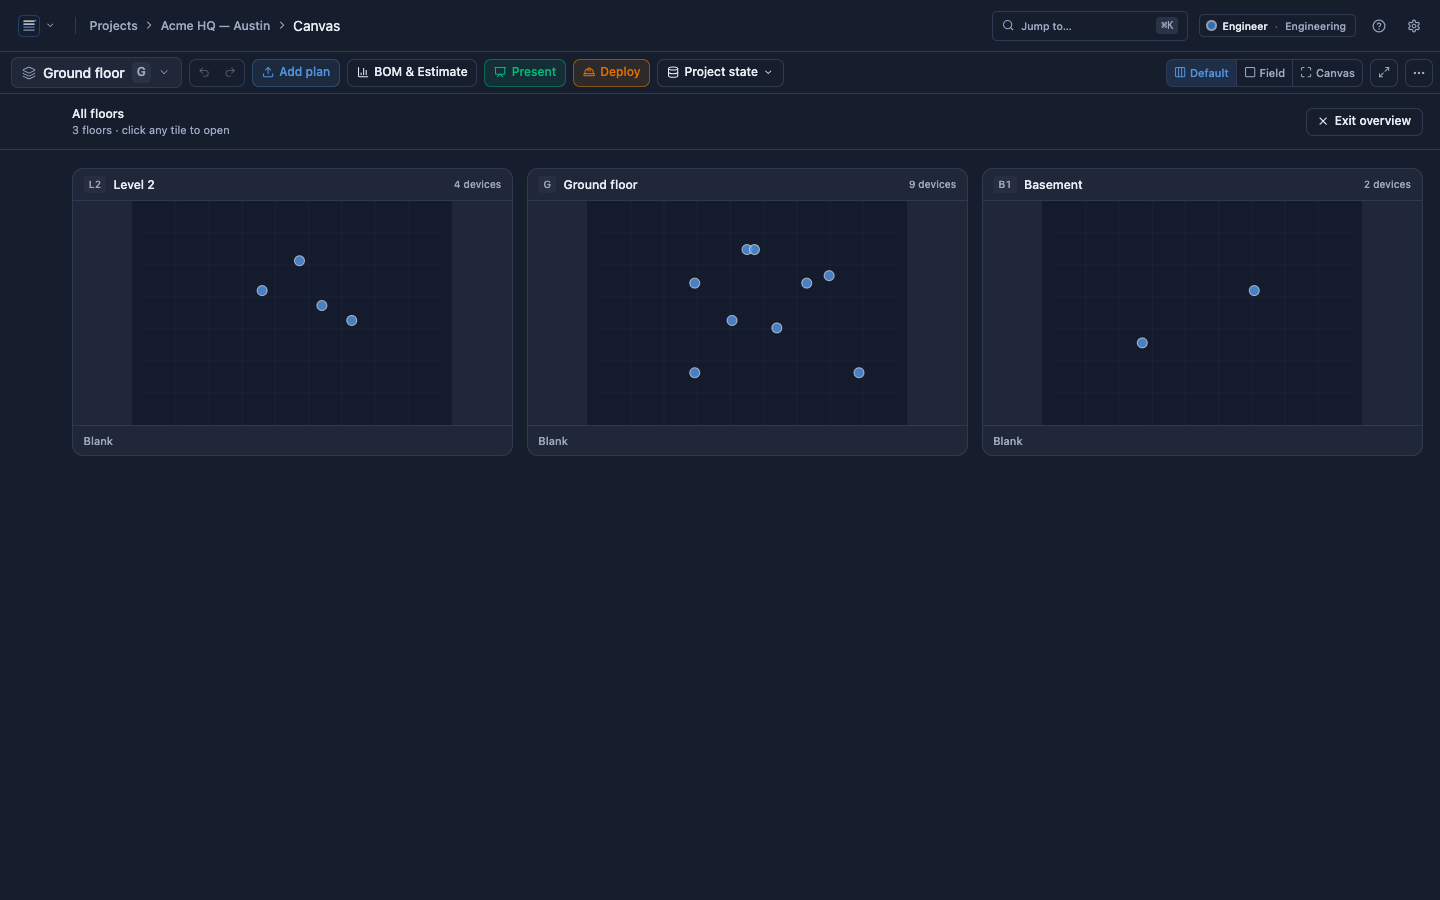
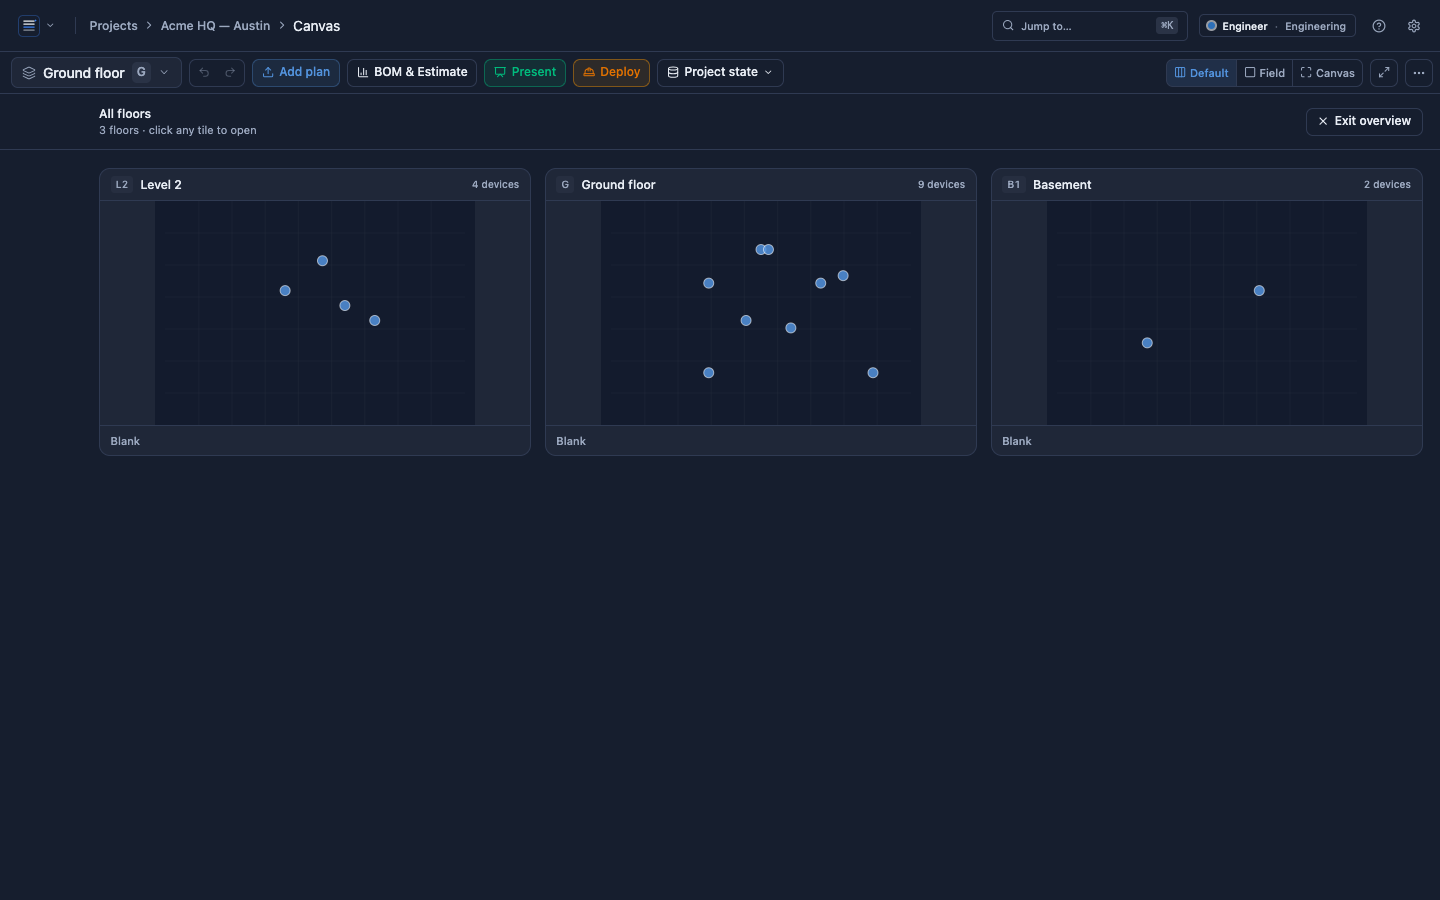
canvas: tie FloorOverview rail clearance to live rail width (E68)
The pl-[72px] hardcode in FloorOverview was a guess at the
LeftRail's horizontal footprint. If the rail ever changes width
(button size bump, padding tweak, hover-expand to 200 px), the
overview would either reclip the leftmost tile or leave a wide
dead zone — silent drift no one would notice until a screenshot
regressed.

- New token `--canvas-rail-clearance` lives in theme.css with a
  72 px static fallback for SSR / pre-mount frames. Documented
  inline so future overlays needing rail clearance have one place
  to reach for.
- LeftRail publishes its real right edge to the variable at runtime
  via ResizeObserver + window resize listener. Updates on mount,
  hover-expand, coarse-pointer touch-expand, and window resize.
  An extra 8 px is appended so content never butts the rail.
- FloorOverview drops the `pl-[72px]` magic value entirely and
  applies `paddingLeft: var(--canvas-rail-clearance)` via inline
  style on both the sticky header and the grid container.

Verified npm run verify all gates green; recaptured the floor
overview screenshot — all three tiles (L2, G, B1) render with
their full labels intact, no clipping. Future rail width changes
propagate automatically.

diff --git a/src/app/canvas/chrome/FloorOverview.tsx b/src/app/canvas/chrome/FloorOverview.tsx
@@ -41,23 +41,27 @@ export function FloorOverview({ projectId, onPickFloor, onClose }: {
     return `L${level + 1}`;
   };
 
-  // M11 audit fix (FL3 / UI1): the overlay used to start at `left: 0`
-  // with `px-5` padding (20px), but the floating LeftRail occupies
-  // `left-3 md:left-4` (12-16px) + `w-11` (44px) + p-2 (8px) ≈ 64-72px
-  // of horizontal space. The leftmost tile rendered behind the rail
-  // with its label clipped to a single digit. Per-side padding now
-  // clears the rail (pl-[72px] = 12 inset + 44 rail + 8 padding + 8
-  // safety) and the right edge keeps the existing 20px breathing
-  // room. There is no existing --rail-width CSS variable today; the
-  // 72px is the only magic value, called out in this comment so a
-  // future variable can land in one place. The z-index also moved
-  // from the raw Tailwind class to the `z-overlay` token
-  // (var(--z-overlay) = 60) so the overview sits cleanly above the
-  // floating SelectByMenu and the canvas-add-fab; both used to bleed
-  // through at the old layer.
+  // M11 audit fix (FL3 / UI1, E68 hardened): the overlay used to start
+  // at `left: 0` with `px-5` padding (20px), but the floating LeftRail
+  // bleeds across the leftmost ~64-76px of horizontal space. The
+  // leftmost tile used to render behind the rail with its label
+  // clipped. Per-side padding now reaches for the
+  // var(--canvas-rail-clearance) token published by LeftRail itself
+  // (measured at runtime, updated on resize and hover-expand) — no
+  // magic number lives here anymore. The right edge keeps the
+  // existing 20px breathing room.
+  //
+  // The z-index also moved from the raw Tailwind class to the
+  // `z-overlay` token (var(--z-overlay) = 60) so the overview sits
+  // cleanly above the floating SelectByMenu and the canvas-add-fab;
+  // both used to bleed through at the old layer.
+  const clearanceStyle = { paddingLeft: 'var(--canvas-rail-clearance)' } as const;
   return (
     <div className="absolute inset-0 z-overlay bg-background overflow-auto">
-      <div className="sticky top-0 z-10 border-b border-border bg-background/95 backdrop-blur-md pl-[72px] pr-5 py-3 flex items-center justify-between">
+      <div
+        style={clearanceStyle}
+        className="sticky top-0 z-10 border-b border-border bg-background/95 backdrop-blur-md pr-5 py-3 flex items-center justify-between"
+      >
         <div>
           <div className="text-sm font-medium">All floors</div>
           <div className="text-[11px] text-muted-foreground">{projectFloors.length} floors · click any tile to open</div>
@@ -71,7 +75,10 @@ export function FloorOverview({ projectId, onPickFloor, onClose }: {
           Exit overview
         </button>
       </div>
-      <div className="pl-[72px] pr-5 py-5 grid gap-4" style={{ gridTemplateColumns: 'repeat(auto-fit, minmax(320px, 1fr))' }}>
+      <div
+        style={{ ...clearanceStyle, gridTemplateColumns: 'repeat(auto-fit, minmax(320px, 1fr))' }}
+        className="pr-5 py-5 grid gap-4"
+      >
         {projectFloors.map((f) => {
           const devices = devicesByFloor[f.id] ?? [];
           const tileBg = f.background;

diff --git a/src/app/canvas/chrome/LeftRail.tsx b/src/app/canvas/chrome/LeftRail.tsx
@@ -90,6 +90,39 @@ export function LeftRail(props: LeftRailProps) {
     };
   }, [touchExpand]);
 
+  // M11 audit fix (FL3 / UI1 follow up E68): publish the rail's real
+  // right edge (measured from the viewport origin) to the
+  // --canvas-rail-clearance CSS variable. Any overlay that needs to
+  // clear the rail (FloorOverview today) reads the variable instead
+  // of guessing a magic number. ResizeObserver fires on rail mount
+  // and on hover expand / coarse pointer expand, so the value tracks
+  // the actual rendered footprint. An extra 8 px is added as a
+  // breathing buffer between rail and overlay content. The static
+  // fallback in theme.css covers the SSR / pre mount frame.
+  useEffect(() => {
+    const el = railRef.current;
+    if (!el) return;
+    const publish = () => {
+      const r = el.getBoundingClientRect();
+      // r.right is viewport relative; for an absolute child of the
+      // canvas viewport that means "distance from the left of the
+      // overlay's coordinate space" — exactly what FloorOverview's
+      // paddingLeft needs.
+      document.documentElement.style.setProperty(
+        '--canvas-rail-clearance',
+        `${Math.ceil(r.right) + 8}px`,
+      );
+    };
+    publish();
+    const obs = new ResizeObserver(publish);
+    obs.observe(el);
+    window.addEventListener('resize', publish);
+    return () => {
+      obs.disconnect();
+      window.removeEventListener('resize', publish);
+    };
+  }, []);
+
   // ─── Group items ────────────────────────────────────────────────
   const tools: RailItem[] = [
     { id: 'select',   icon: MousePointer2, label: 'Select',   hint: 'Select and edit objects',

diff --git a/src/styles/theme.css b/src/styles/theme.css
@@ -214,6 +214,17 @@
   --canvas-rail-active-bg:         rgba(255, 255, 255, 0.14);
   --canvas-rail-hover-bg:          rgba(255, 255, 255, 0.07);
 
+  /* M11 audit fix (FL3 / UI1 follow up E68): horizontal space the
+     floating LeftRail occupies from the canvas content origin.
+     Default = left-4 inset (16px) + outer padding (8px) + button
+     width (44px) + safety (4px) = 72px on md+ breakpoints. LeftRail
+     overwrites this value at runtime via ResizeObserver so the
+     measurement always tracks the actual rendered rail; any canvas
+     overlay that needs to clear the rail (FloorOverview today,
+     others later) reaches for var(--canvas-rail-clearance) instead
+     of hand picking a number. */
+  --canvas-rail-clearance: 72px;
+
   --panel-background: #34405A;
   --panel-border:     #51607D;
 
